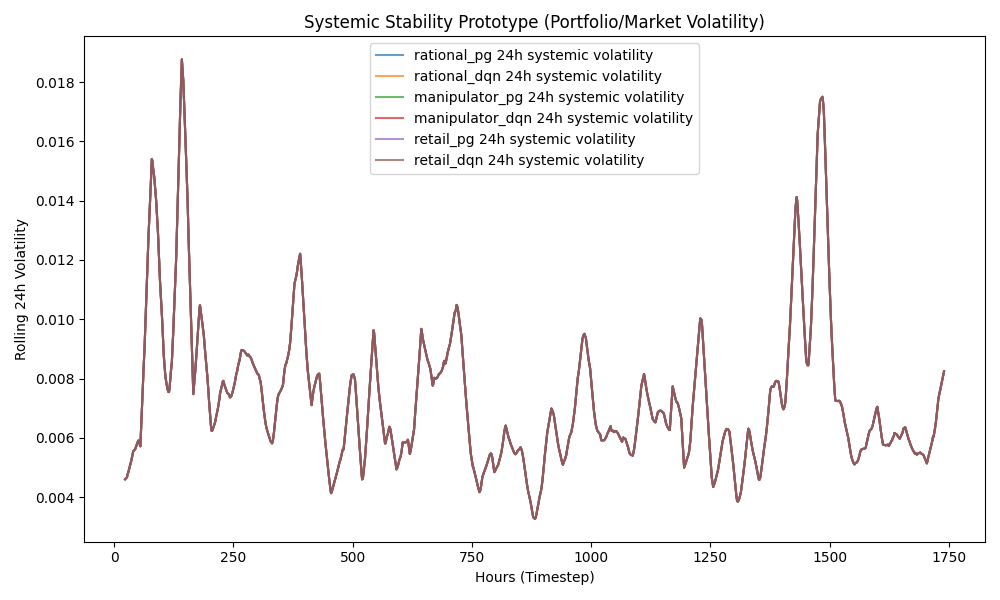
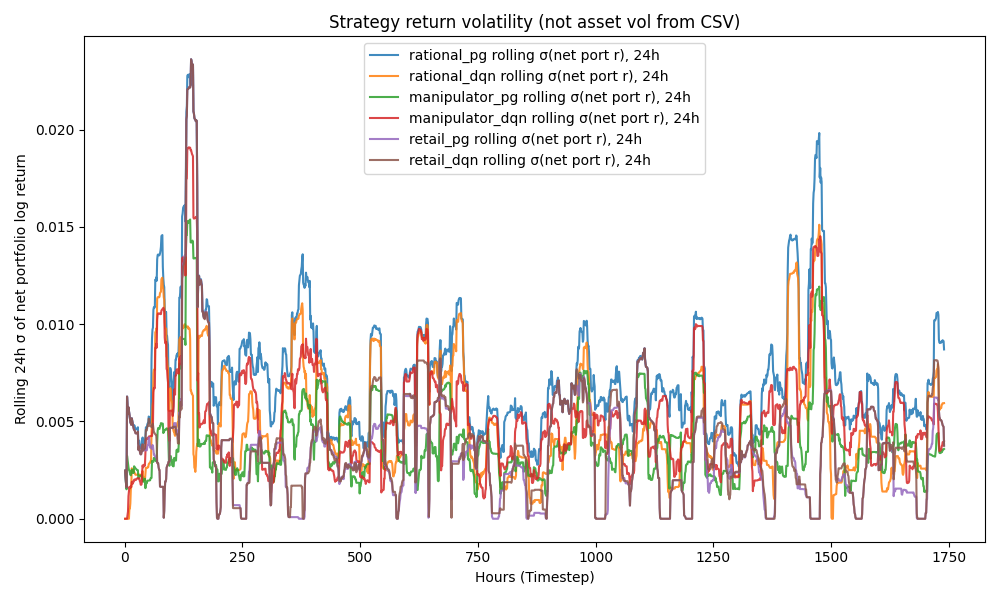
fix plot

diff --git a/src/plot_from_logs.py b/src/plot_from_logs.py
@@ -1,0 +1,146 @@
+"""
+Regenerate evaluation plots from saved test rollout CSVs (no training).
+
+Expects files written by src.main:
+  {out_dir}/{sym}_{trader_type}_pg_log.csv
+  {out_dir}/{sym}_{trader_type}_dqn_log.csv
+
+Summary-only CSVs (*_summary.csv) are not enough — you must run src.main once so the
+*_pg_log.csv / *_dqn_log.csv files exist.
+
+Run from repo root:
+  python -m src.plot_from_logs --sym AAVE --out_dir results
+  python -m src.plot_from_logs --auto --out_dir results   # pick up any matching logs
+"""
+
+from __future__ import annotations
+
+import argparse
+import re
+import sys
+from pathlib import Path
+
+import pandas as pd
+
+from src.evaluation.plotting import generate_all_plots
+
+# {sym}_{trader_type}_{pg|dqn}_log.csv — sym has no underscores (AAVE, SUI, …)
+_LOG_NAME = re.compile(r"^([^_]+)_(.+)_(pg|dqn)_log\.csv$")
+
+
+def load_saved_logs(out_dir: Path, sym: str, trader_types: list[str]) -> dict[str, pd.DataFrame]:
+    all_logs: dict[str, pd.DataFrame] = {}
+    missing: list[str] = []
+
+    for t in trader_types:
+        for suffix, key_suffix in (("pg", "pg"), ("dqn", "dqn")):
+            path = out_dir / f"{sym}_{t}_{suffix}_log.csv"
+            key = f"{t}_{key_suffix}"
+            if not path.is_file():
+                missing.append(str(path))
+                continue
+            df = pd.read_csv(path)
+            if "regime" in df.columns:
+                df["regime"] = df["regime"].astype(str)
+            all_logs[key] = df
+
+    if missing:
+        print("Warning: missing files (skipped):", file=sys.stderr)
+        for m in missing:
+            print(f"  {m}", file=sys.stderr)
+
+    return all_logs
+
+
+def load_discovered_logs(out_dir: Path) -> tuple[dict[str, pd.DataFrame], str]:
+    """Load every *_{pg|dqn}_log.csv; sym (plot prefix) must be unique across files."""
+    all_logs: dict[str, pd.DataFrame] = {}
+    syms: set[str] = set()
+
+    for path in sorted(out_dir.glob("*.csv")):
+        m = _LOG_NAME.match(path.name)
+        if not m:
+            continue
+        sym, trader, algo = m.group(1), m.group(2), m.group(3)
+        syms.add(sym)
+        key = f"{trader}_{algo}"
+        df = pd.read_csv(path)
+        if "regime" in df.columns:
+            df["regime"] = df["regime"].astype(str)
+        all_logs[key] = df
+
+    if not all_logs:
+        return {}, ""
+
+    if len(syms) != 1:
+        raise SystemExit(
+            f"--auto found logs for multiple symbols {sorted(syms)} in {out_dir}. "
+            "Use default mode with an explicit --sym and matching files, or split into separate folders."
+        )
+
+    return all_logs, syms.pop()
+
+
+def list_csv_hint(out_dir: Path) -> str:
+    csvs = sorted(p.name for p in out_dir.glob("*.csv"))
+    if not csvs:
+        return f"(no *.csv in {out_dir})"
+    return "Found *.csv:\n  " + "\n  ".join(csvs)
+
+
+def main() -> None:
+    parser = argparse.ArgumentParser(description="Redraw plots from saved *_pg_log.csv / *_dqn_log.csv")
+    parser.add_argument("--sym", type=str, default="AAVE", help="Symbol prefix in filenames (same as src.main)")
+    parser.add_argument(
+        "--out_dir",
+        type=str,
+        default="results",
+        help="Directory containing saved logs and where PNGs are written",
+    )
+    parser.add_argument(
+        "--trader_types",
+        nargs="+",
+        default=["rational", "manipulator", "retail"],
+        help="Trader types; must match filenames from the original run",
+    )
+    parser.add_argument(
+        "--auto",
+        action="store_true",
+        help="Discover all {sym}_{trader}_{pg|dqn}_log.csv in out_dir (single sym only)",
+    )
+    args = parser.parse_args()
+
+    out_dir = Path(args.out_dir)
+    if not out_dir.is_dir():
+        raise SystemExit(f"out_dir is not a directory: {out_dir}")
+
+    if args.auto:
+        all_logs, sym = load_discovered_logs(out_dir)
+        if not all_logs:
+            print(list_csv_hint(out_dir), file=sys.stderr)
+            raise SystemExit(
+                f"No files matching *_*_{{pg,dqn}}_log.csv under {out_dir}. "
+                "Train and save logs first, e.g.  python -m src.main --sym AAVE --out_dir results"
+            )
+        plot_prefix = sym
+    else:
+        all_logs = load_saved_logs(out_dir, args.sym, args.trader_types)
+        if not all_logs:
+            print(list_csv_hint(out_dir), file=sys.stderr)
+            raise SystemExit(
+                f"No log CSVs for sym={args.sym!r} under {out_dir}. "
+                f"Expected e.g. {args.sym}_rational_pg_log.csv (from src.main). "
+                "Summary-only runs leave *_summary.csv but not rollout logs. "
+                "Run: python -m src.main --sym AAVE --out_dir results\n"
+                "Or use --auto if logs use the standard naming pattern."
+            )
+        plot_prefix = args.sym
+
+    print(f"Loaded {len(all_logs)} log table(s): {', '.join(sorted(all_logs.keys()))}")
+
+    generate_all_plots(all_logs, out_dir=str(out_dir), prefix=plot_prefix)
+    print(f"Plots written to {out_dir.resolve()}")
+
+
+if __name__ == "__main__":
+    main()

diff --git a/src/evaluation/plotting.py b/src/evaluation/plotting.py
@@ -1,28 +1,43 @@
 import matplotlib.pyplot as plt
-import pandas as pd
 import numpy as np
 from pathlib import Path
 
 def plot_crisis_frequency(logs_dict, out_dir: Path, prefix: str = ""):
     """
-    Plots the frequency of "crashes" or extreme drawdowns 
-    based on the action logs from different populations.
+    Per-trader crisis stress from portfolio outcomes (net_port_r), so curves differ by policy.
+
+    Note: ``regime`` / raw market ``vol`` in the log are properties of the price path at each
+    timestep; every rollout walks the same test index, so plotting those per trader duplicates
+    the same series six times. Optional reference: one dashed line for market crash regime.
     """
     plt.figure(figsize=(10, 6))
+    # Hourly log portfolio return threshold for a "stressed" step (tune to your asset scale).
+    stress_thresh = -0.02
+
     for name, log_df in logs_dict.items():
-        if "regime" in log_df.columns:
-            # crisis defined as regime == crash
-            crashes = (log_df["regime"] == "crash").rolling(24).sum()
-            plt.plot(crashes.values, label=f"{name} Crash Frequency (24h roll)", alpha=0.7)
-        else:
-            # proxy for crisis: heavily negative portfolio return
-            net_r = log_df["net_port_r"] if "net_port_r" in log_df.columns else log_df["port_r"]
-            crashes = (net_r < -0.05).astype(int).rolling(24).sum()
-            plt.plot(crashes.values, label=f"{name} Crisis Events (<-5% ret/24h)", alpha=0.7)
-            
+        net_r = log_df["net_port_r"] if "net_port_r" in log_df.columns else log_df["port_r"]
+        stressed_hours = (net_r < stress_thresh).astype(int).rolling(24, min_periods=1).sum()
+        plt.plot(
+            stressed_hours.values,
+            label=f"{name} portfolio stress hours (24h roll, r<{stress_thresh})",
+            alpha=0.85,
+        )
+
+    first = next(iter(logs_dict.values()), None)
+    if first is not None and "regime" in first.columns:
+        mkt = (first["regime"] == "crash").astype(int).rolling(24, min_periods=1).sum()
+        plt.plot(
+            mkt.values,
+            color="0.35",
+            linestyle="--",
+            linewidth=1.5,
+            label="market: crash regime hours (24h roll, same for all)",
+            alpha=0.9,
+        )
+
     plt.title("Crisis Frequency Over Time by Trader Population")
     plt.xlabel("Hours (Timestep)")
-    plt.ylabel("Number of Crisis Events (24h Rolling)")
+    plt.ylabel("Stressed portfolio hours (24h rolling count)")
     plt.legend()
     plt.tight_layout()
     filename = f"{prefix}_" + "crisis_frequency.png" if prefix else "crisis_frequency.png"
@@ -54,16 +69,21 @@ def plot_market_efficiency(logs_dict, out_dir: Path, prefix: str = ""):
     plt.close()
 
 def plot_stablecoin_stability(logs_dict, out_dir: Path, prefix: str = ""):
-    # Depending on the dataset, if stablecoins aren't present directly, 
-    # we can use portfolio volatility as a proxy for systemic stability.
+    """
+    Rolling volatility of realized net portfolio returns per strategy.
+
+    The ``vol`` column in env logs is the asset's precomputed rolling vol from the dataframe,
+    identical across traders on the same test split; use per-step net returns instead.
+    """
     plt.figure(figsize=(10, 6))
     for name, log_df in logs_dict.items():
-        if "vol" in log_df.columns:
-            plt.plot(log_df["vol"].rolling(24).mean().values, label=f"{name} 24h systemic volatility", alpha=0.7)
-            
-    plt.title("Systemic Stability Prototype (Portfolio/Market Volatility)")
+        net_r = log_df["net_port_r"] if "net_port_r" in log_df.columns else log_df["port_r"]
+        roll_vol = net_r.rolling(24, min_periods=1).std()
+        plt.plot(roll_vol.values, label=f"{name} rolling σ(net port r), 24h", alpha=0.85)
+
+    plt.title("Strategy return volatility (not asset vol from CSV)")
     plt.xlabel("Hours (Timestep)")
-    plt.ylabel("Rolling 24h Volatility")
+    plt.ylabel("Rolling 24h σ of net portfolio log return")
     plt.legend()
     plt.tight_layout()
     filename = f"{prefix}_" + "stablecoin_stability.png" if prefix else "stablecoin_stability.png"
